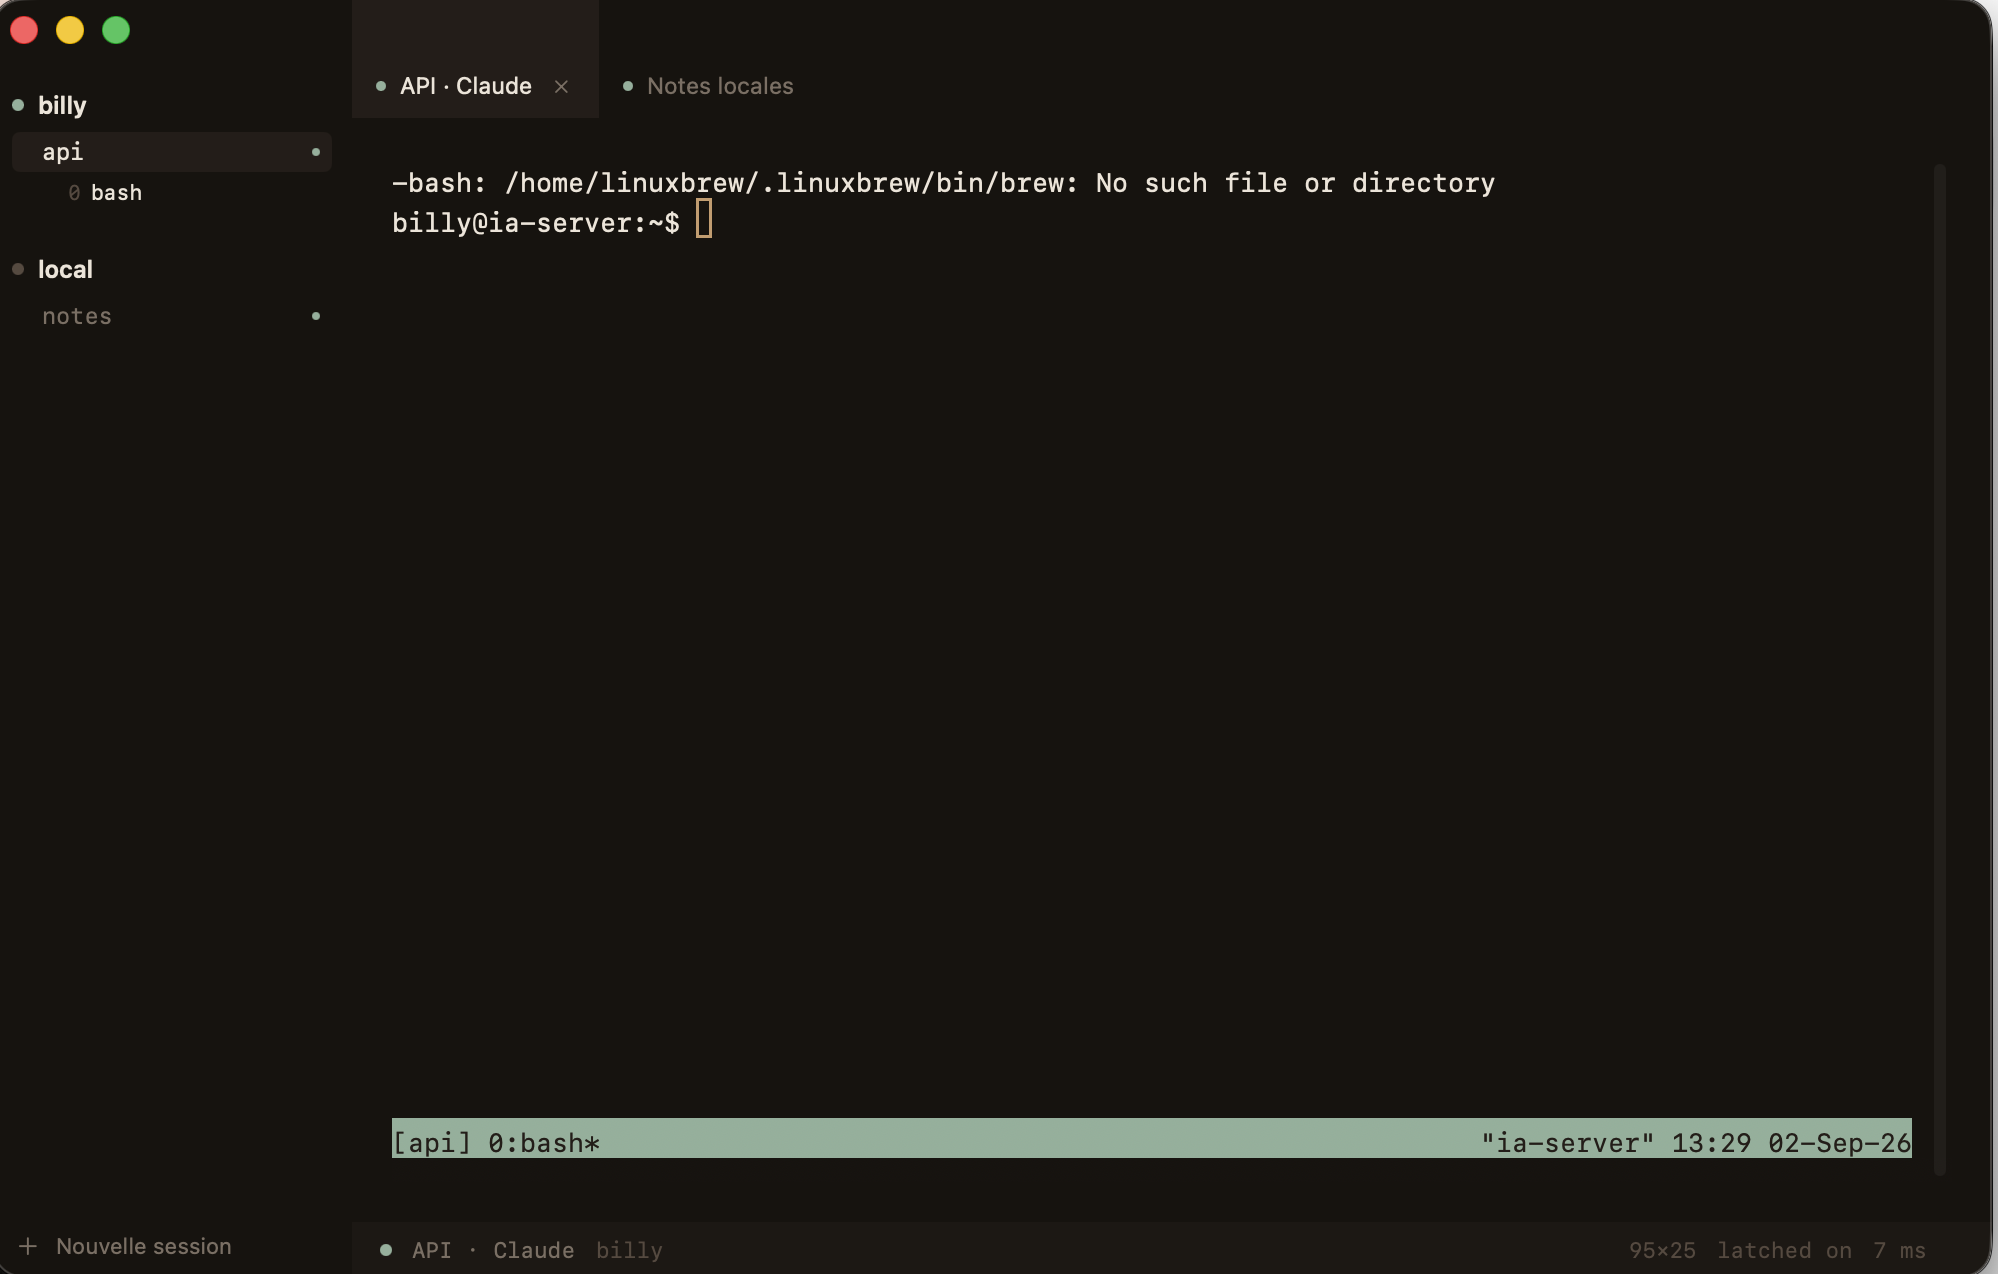
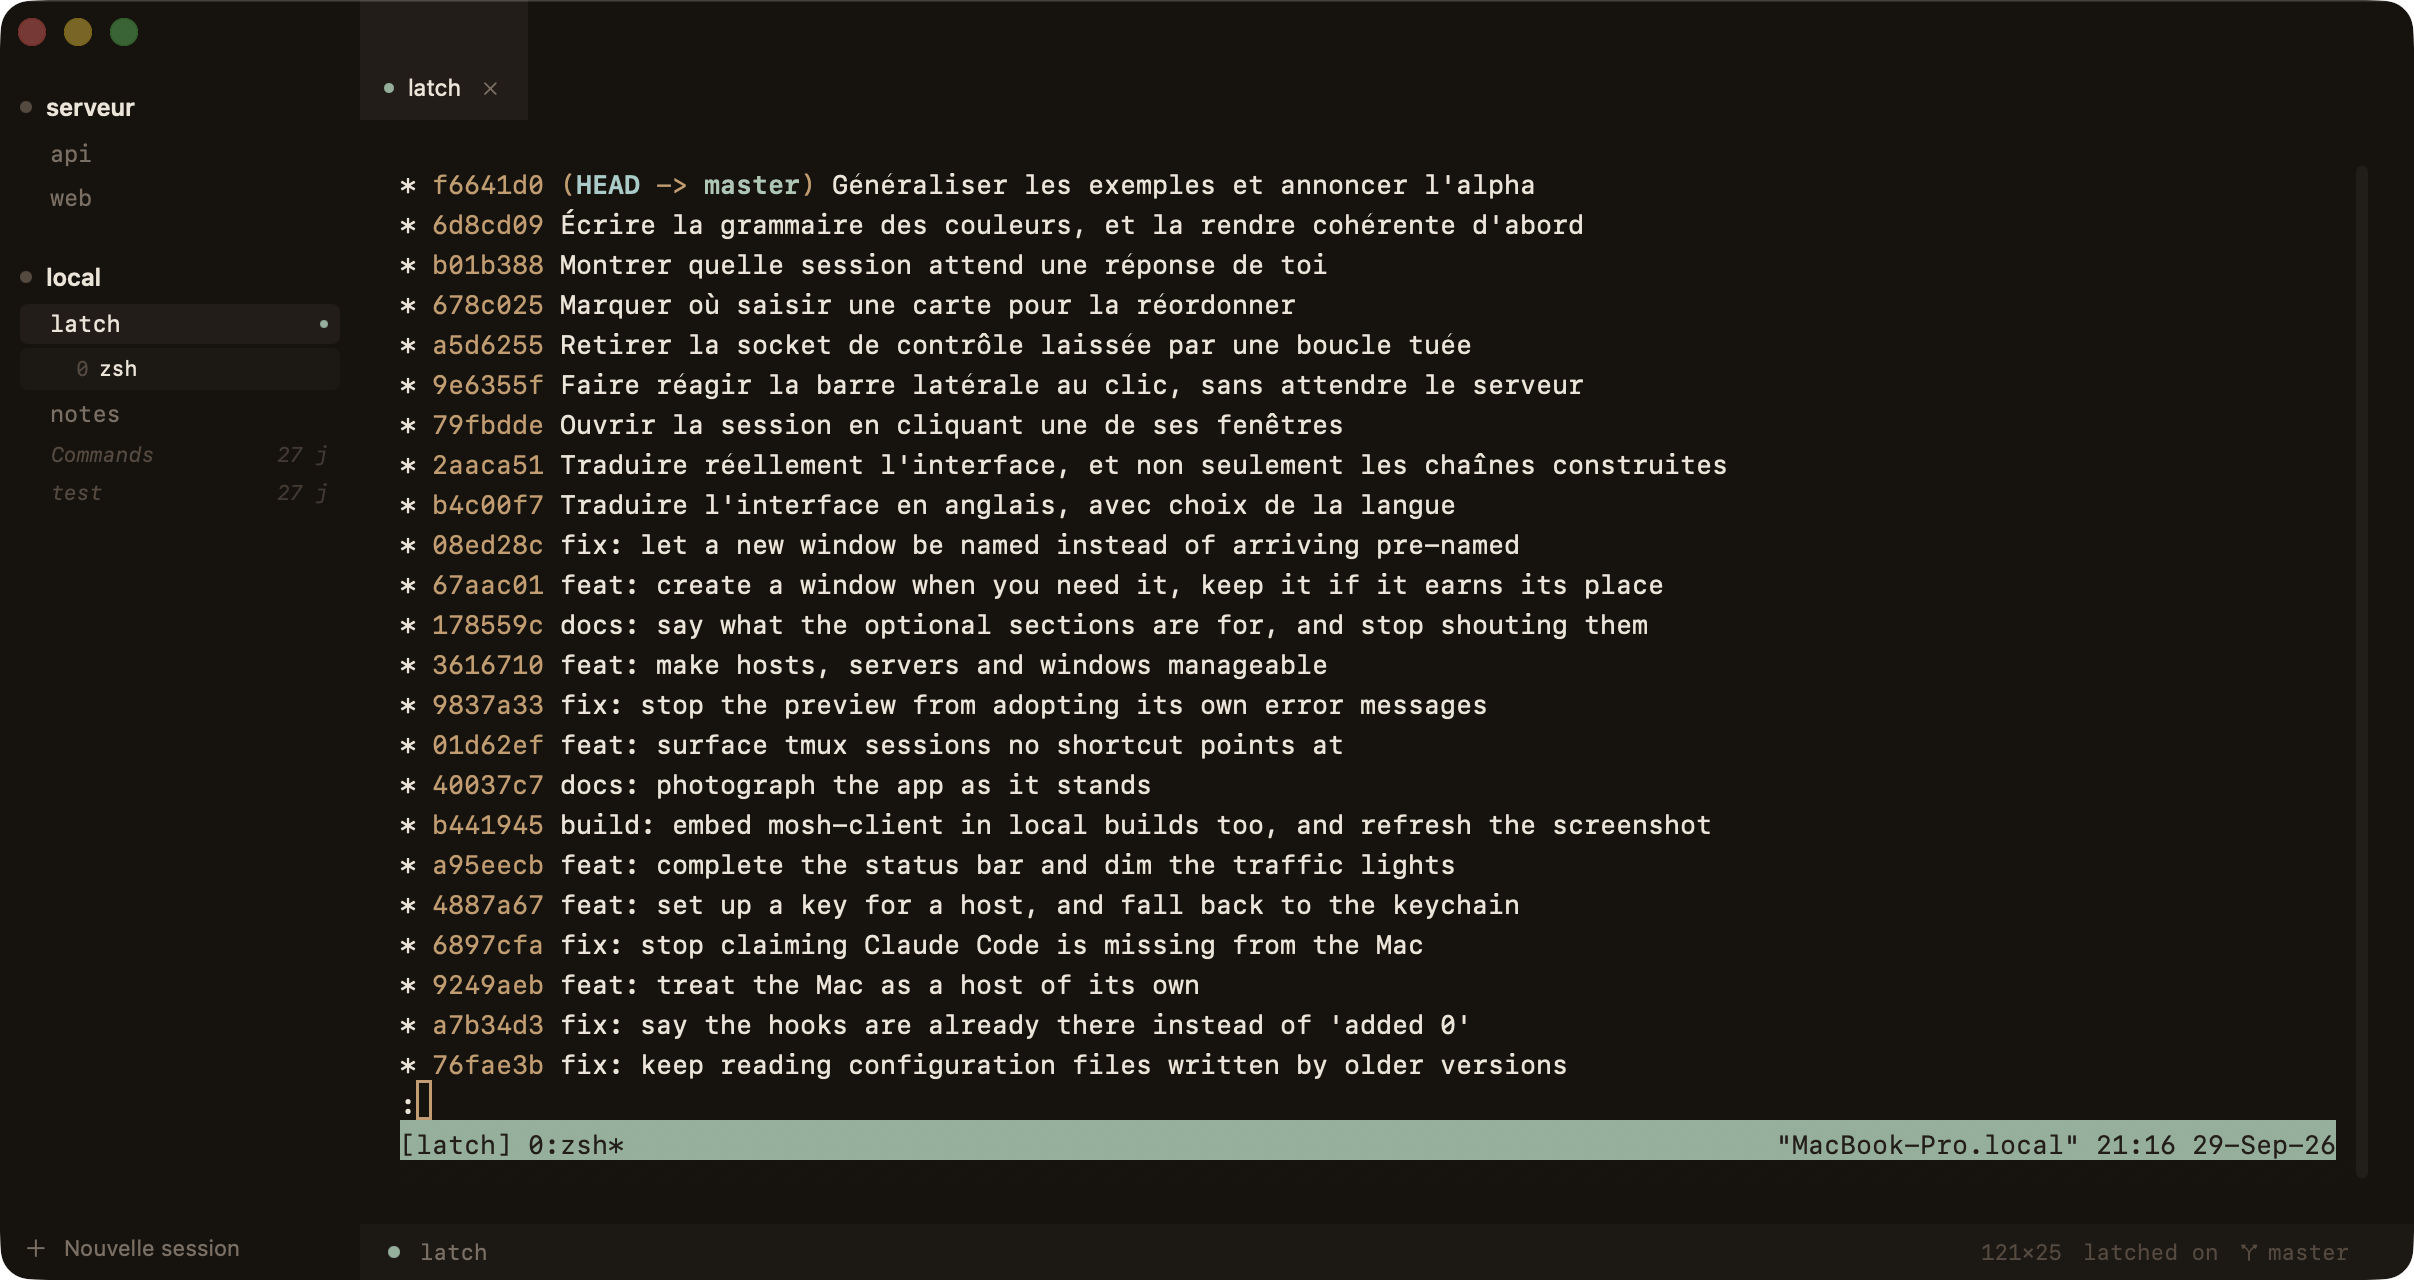
Refaire la capture du README
L'ancienne montrait une erreur brew, des noms de serveur et de sessions
personnels, et datait d'avant la légende des couleurs, la poignée de
réordonnancement et le témoin Claude par session.

Celle-ci ne montre que la fenêtre de Latch — capturée par identifiant de
fenêtre, jamais par l'écran — avec des noms neutres, les vraies fenêtres tmux,
une session sans raccourci, et la barre d'état avec sa branche git. Le contenu
du terminal est l'historique du projet lui-même.

diff --git a/README.md b/README.md
@@ -18,7 +18,7 @@ session ouvre un terminal attaché à une session `tmux` sur un serveur, quel qu
 soit l'état de la connexion précédente. Vous fermez le Mac, vous le rouvrez le
 lendemain, la session est là où vous l'aviez laissée.
 
-![Latch attaché à une session tmux distante](docs/screenshot.png)
+![Latch : la barre latérale, ses sessions et leurs fenêtres tmux, et la barre d'état](docs/screenshot.png)
 
 ## État
 
